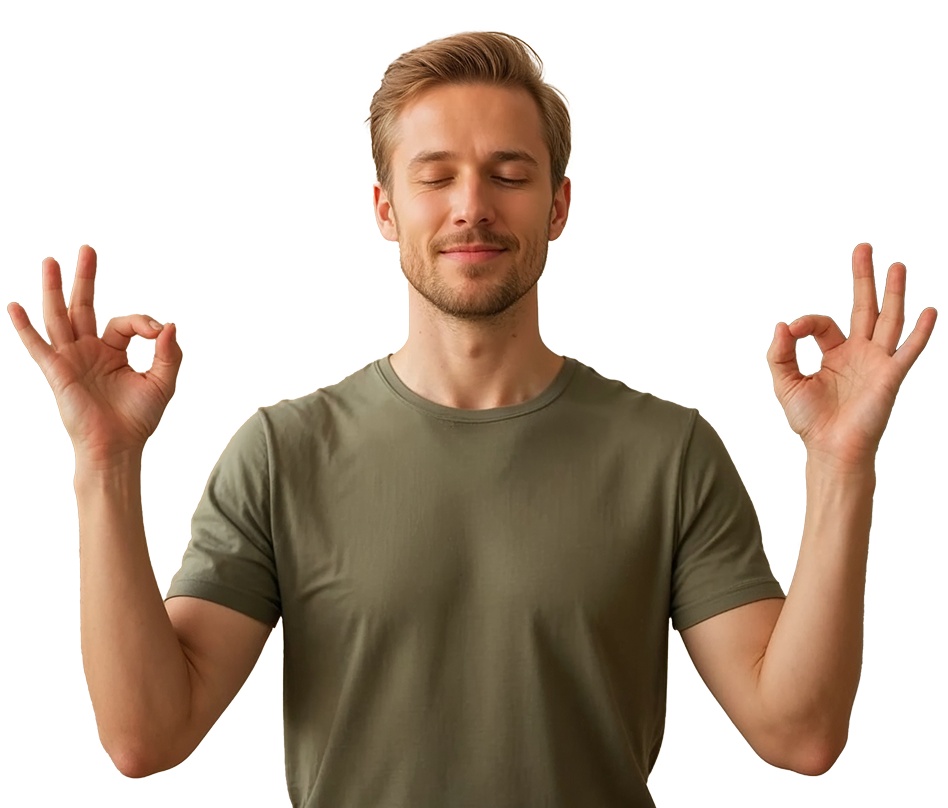
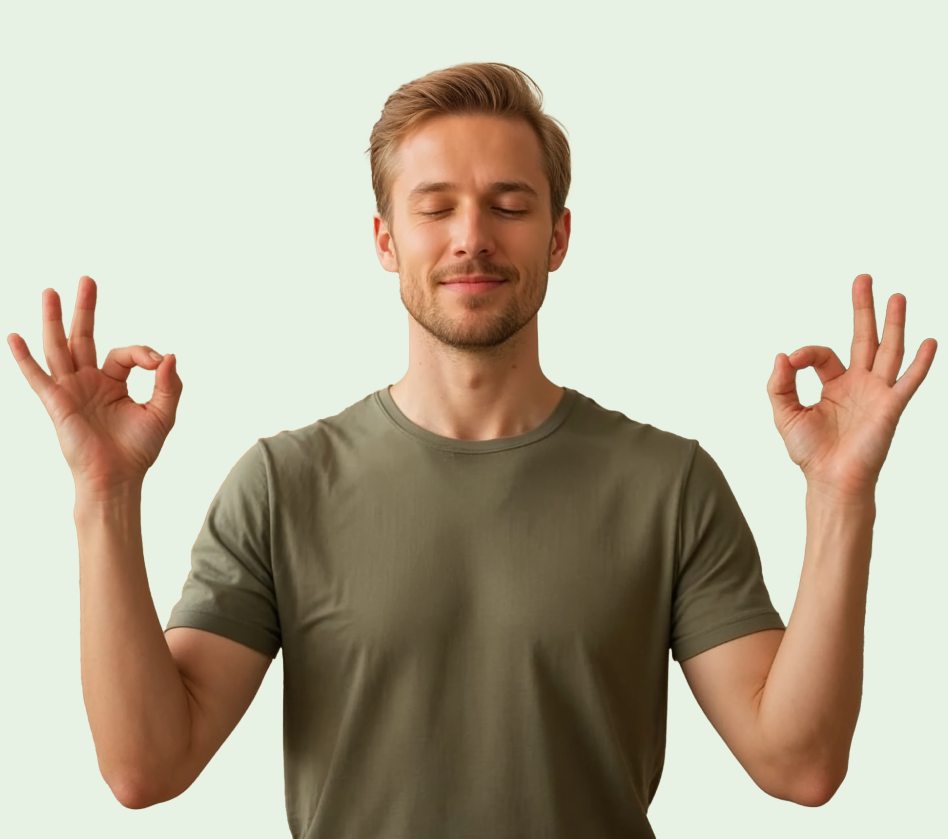
finalize section

diff --git a/css/hero.css b/css/hero.css
@@ -4,48 +4,44 @@
     --feature-bg: #F1F7EF;
     --checkbox-bg: #154B3E;
 }
+
 .hero {
     display: grid;
-    grid-template-columns: 1fr 1fr;
+    grid-template-columns: 50% 50%;
     width: 100%;
-    max-height: 840px;
     min-height: 650px;
+    max-height: 840px;
     background: #fff;
+    font-family: "Poppins", sans-serif;
 }
 
 .hero__image {
-    height: 100%;
+    width: 100%;
+    min-width: 0;
     min-height: 650px;
-    background: var(--hero-bg);
-
     display: flex;
     align-items: flex-end;
     justify-content: center;
-
     overflow: hidden;
+    background: var(--hero-bg);
 }
 
 .hero__image img {
     display: block;
     width: 100%;
     height: 100%;
-
     object-fit: contain;
-    object-position: center bottom;
+    object-position: center center;
 }
 
 .hero__inner {
-    height: 100%;
-    box-sizing: border-box;
-
+    width: 100%;
+    min-width: 0;
     background: #fff;
-
     display: flex;
     flex-direction: column;
     justify-content: center;
-
-    padding: 60px 7vw;
-
+    padding: 0 20px 0 60px;
     color: var(--text-color);
 }
 
@@ -55,53 +51,48 @@
     line-height: 90px;
     font-weight: 600;
     letter-spacing: -2px;
+    overflow-wrap: break-word;
 }
 
 .hero__subtitle {
     display: block;
     margin-top: 20px;
-
-    font-family: "Poppins", sans-serif;
     font-size: 22px;
     line-height: 1.4;
     font-weight: 400;
-
     color: var(--text-color);
     max-width: 650px;
 }
 
 .hero__features {
+    width: 100%;
     display: flex;
     flex-direction: column;
-    gap: 10px;
-
+    gap: 8px;
     list-style: none;
     padding: 0;
-    margin: 40px 0 0;
+    margin: 11px 0 0;
 }
 
 .hero__feature {
     width: 100%;
+    min-width: 0;
     min-height: 60px;
     border-radius: 10px;
     display: flex;
     align-items: center;
     gap: 12px;
-
     padding: 0 20px;
-    box-sizing: border-box;
-
     background: var(--feature-bg);
-
     font-size: 20px;
     line-height: 1.3;
     color: var(--text-color);
+    overflow-wrap: break-word;
 }
 
 .hero__feature::before {
     content: "";
     flex: 0 0 18px;
-
     width: 18px;
     height: 18px;
     background-color: var(--checkbox-bg);
@@ -109,8 +100,7 @@
     background-repeat: no-repeat;
     background-position: center;
     background-size: 8px 8px;
-
-    border-radius: 30px;
+    border-radius: 50%;
 }
 
 .hero__feature-bold {
@@ -120,72 +110,179 @@
 .hero__feature-note {
     font-size: 14px;
     font-weight: 400;
-    margin-left: 2px;
+    color: #777;
 }
 
-@media (max-width: 1200px) {
-    .hero__title {
-        font-size: 56px;
-        line-height: 68px;
-    }
-
-    .hero__inner {
-        padding: 50px;
-    }
+.hero__cta {
+    width: 50%;
+    min-height: 60px;
+    margin-top: 40px;
+    border: none;
+    border-radius: 10px;
+    background: #154B3E;
+    color: #fff;
+    font-family: "Poppins", sans-serif;
+    font-size: 22px;
+    font-weight: 600;
+    text-align: center;
+    cursor: pointer;
 }
 
-@media (max-width: 900px) {
+.hero__review {
+    margin-top: 20px;
+}
+
+.hero__review-info {
+    display: flex;
+    align-items: center;
+    gap: 14px;
+}
+
+.hero__review-info-image img {
+    display: block;
+    width: 60px;
+    height: 60px;
+    object-fit: contain;
+}
+
+.hero__review-info-text {
+    display: flex;
+    flex-direction: column;
+    gap: 4px;
+}
+
+.hero__review-info-text-name {
+    display: flex;
+    align-items: center;
+    gap: 3px;
+    color: #000;
+    font-family: "Roboto", sans-serif;
+    font-size: 19px;
+    font-weight: 400;
+}
+
+.hero__review-info-text-name img {
+    width: 16px;
+    height: 16px;
+    object-fit: contain;
+}
+
+.hero__review-info-text-rating {
+    color: #000;
+    font-family: "Roboto", sans-serif;
+    font-size: 21px;
+    font-weight: 700;
+}
+
+@media (max-width: 1024px) {
+
     .hero {
-        grid-template-columns: 1fr;
-    }
-
-    .hero__image {
-        min-height: 500px;
-    }
-
-    .hero__inner {
-        padding: 50px 30px;
-    }
-
-    .hero__title {
-        font-size: 52px;
-        line-height: 62px;
-    }
-}
-
-@media (max-width: 600px) {
-    .hero__image {
-        min-height: 400px;
+        display: flex;
+        flex-direction: column;
+        min-height: 0;
+        max-height: none;
     }
 
     .hero__inner {
+        order: 1;
+        width: 100%;
+        height: auto;
         padding: 40px 20px;
     }
 
     .hero__title {
-        font-size: 40px;
-        line-height: 48px;
+        font-size: 36px;
+        line-height: 42px;
         letter-spacing: -1px;
     }
 
     .hero__subtitle {
         font-size: 18px;
         line-height: 1.4;
-        margin-top: 15px;
+        margin-top: 20px;
     }
 
     .hero__features {
-        margin-top: 30px;
+        margin-top: 11px;
+        gap: 8px;
     }
 
     .hero__feature {
         min-height: 60px;
         padding: 10px 15px;
-        font-size: 17px;
-        flex-wrap: wrap;
+        font-size: 16px;
+        line-height: 1.3;
+        gap: 8px;
     }
 
     .hero__feature-note {
         font-size: 12px;
+    }
+
+    .hero__cta {
+        width: 100%;
+        font-size: 22px;
+    }
+
+    .hero__review {
+        margin-top: 20px;
+    }
+
+    .hero__review-info {
+        display: flex;
+        flex-direction: row;
+        align-items: center;
+        gap: 10px;
+        white-space: nowrap;
+    }
+
+    .hero__review-info-image img {
+        width: 50px;
+        height: 50px;
+    }
+
+    .hero__review-info-text {
+        display: flex;
+        flex-direction: row;
+        align-items: center;
+        gap: 6px;
+    }
+
+    .hero__review-info-text-name {
+        display: flex;
+        align-items: center;
+        gap: 2px;
+        font-size: 12px;
+        line-height: 1;
+    }
+
+    .hero__review-info-text-name img {
+        width: 12px;
+        height: 12px;
+    }
+
+    .hero__review-info-text-rating {
+        font-size: 12px;
+        line-height: 1.2;
+    }
+
+    .hero__image {
+        order: 2;
+        width: 100%;
+        height: auto;
+        min-height: 0;
+        padding: 0 20px;
+        background: none;
+        display: flex;
+        align-items: center;
+        justify-content: center;
+        overflow: hidden;
+    }
+
+    .hero__image img {
+        width: 100%;
+        height: auto;
+        object-fit: contain;
+        object-position: center center;
     }
 }

diff --git a/index.html b/index.html
@@ -7,6 +7,7 @@
     <link rel="icon" href="./favicon.ico">
     <link rel="stylesheet" href="./css/style.css">
     <link rel="stylesheet" href="./css/hero.css">
+    <link href="https://fonts.googleapis.com/css2?family=Poppins:wght@400;600&family=Roboto:wght@400;700&display=swap" rel="stylesheet">
 </head>
 <body>
     <div class="topbar">
@@ -52,10 +53,34 @@
                 </li>
                  <li class="hero__feature">
                     Expresslieferung ab
-                    <span class="hero__feature-bold">60 Min</span>
-                    <span class="hero__feature-note">*je nach Standort</span>
+                    <span class="hero__feature-bold">
+                        60 Min
+                        <span class="hero__feature-note">*je nach Standort</span>
+                    </span>
                 </li>
             </ul>
+            <button class="hero__cta">
+                Jetzt Rezept anfordern!
+            </button>
+            <div class="hero__review">
+                <div class="hero__review-info">
+                    <div class="hero__review-info-image">
+                        <img src="./assets/images/hero_logo.png" alt="Review Image">
+                    </div>
+                    <div class="hero__review-info-text">
+                        <span class="hero__review-info-text-name">
+                            Käuferschutz
+                            <img src="./assets/icons/stars.png" alt="Stars">
+                            <img src="./assets/icons/stars.png" alt="Stars">
+                            <img src="./assets/icons/stars.png" alt="Stars">
+                            <img src="./assets/icons/stars.png" alt="Stars">
+                            <img src="./assets/icons/stars.png" alt="Stars">
+                        </span>
+                        <span class="hero__review-info-text-rating">4,81 Sehr gut</span>
+
+                    </div>
+                </div>
+            </div>
         </div>
     </section>
     <script src="./js/index.js"></script>
